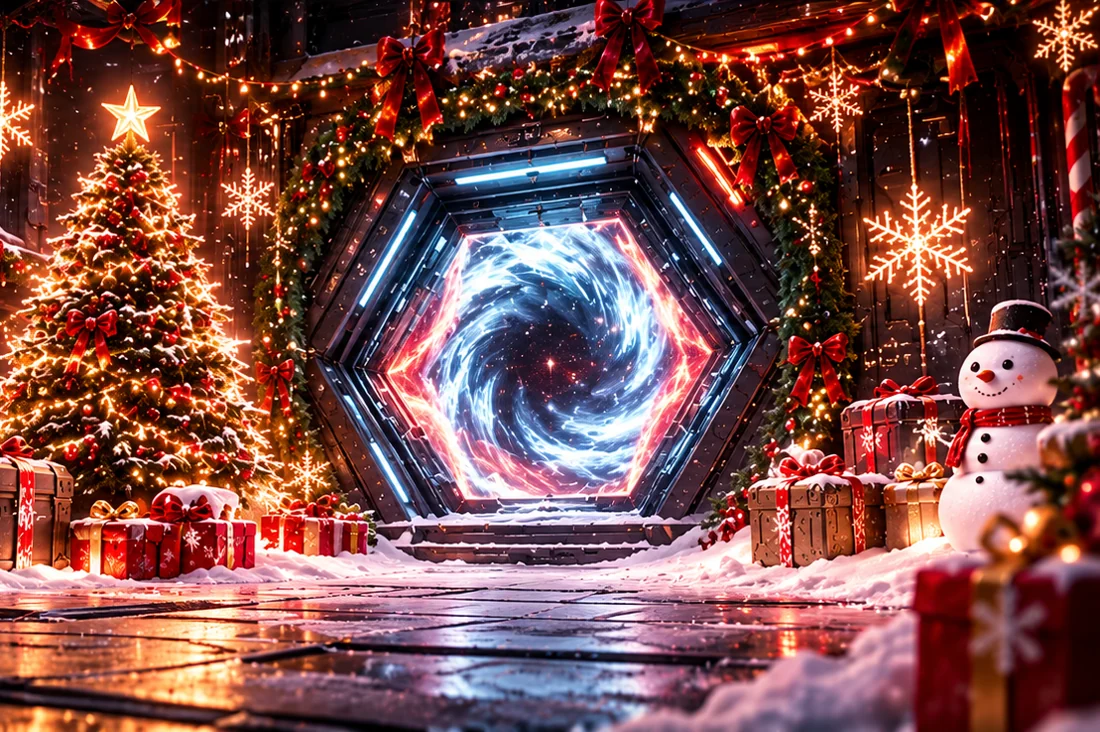
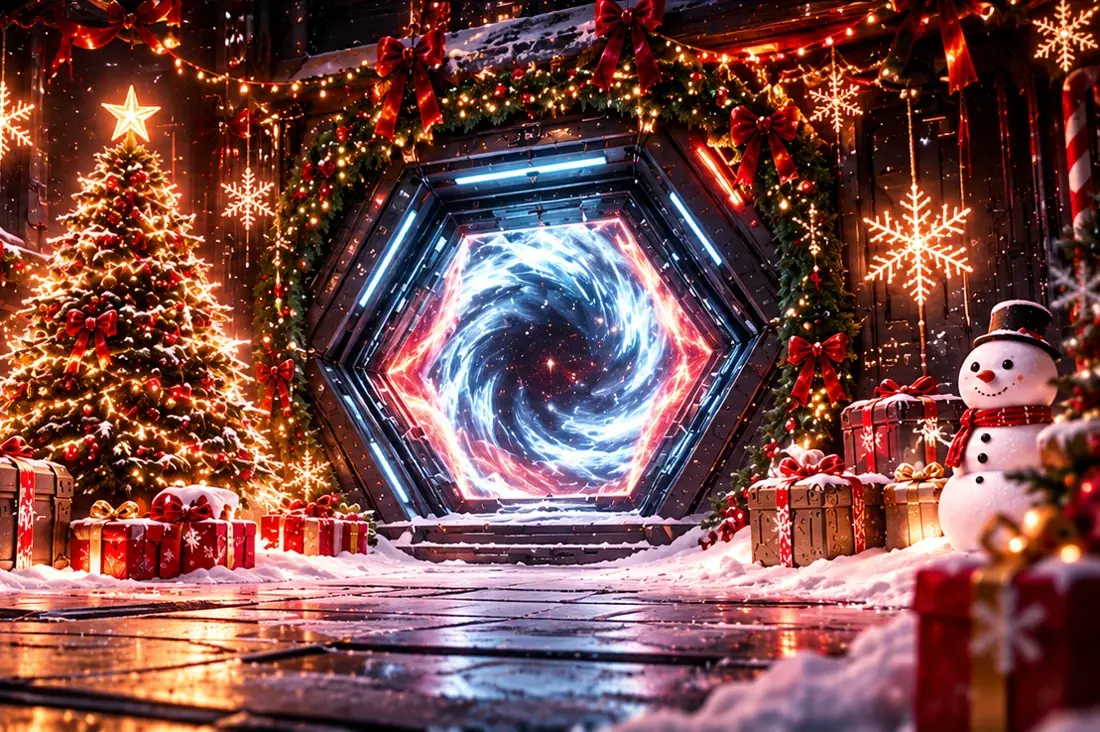
Performance pass 1: lazy cart drawer, smaller hero, hero preload

diff --git a/frontend/src/components/CartDrawerLazy.tsx b/frontend/src/components/CartDrawerLazy.tsx
@@ -1,0 +1,15 @@
+'use client';
+import * as React from 'react';
+import dynamic from 'next/dynamic';
+import { useCartStore } from '@/lib/store';
+
+// The drawer pulls in framer-motion, which most pages do not need on first load. Load it the first time
+// the drawer opens and keep it mounted afterwards so the exit animation and focus return still run.
+const CartDrawer = dynamic(() => import('@/components/CartDrawer').then((m) => m.CartDrawer), { ssr: false });
+
+export function CartDrawerLazy() {
+  const isOpen = useCartStore((s) => s.isDrawerOpen);
+  const [everOpened, setEverOpened] = React.useState(false);
+  React.useEffect(() => { if (isOpen) setEverOpened(true); }, [isOpen]);
+  return everOpened || isOpen ? <CartDrawer /> : null;
+}

diff --git a/frontend/src/app/layout.tsx b/frontend/src/app/layout.tsx
@@ -16,7 +16,7 @@ import { TekMusic } from '@/components/tek/TekMusic';
 import { CookieConsent } from '@/components/CookieConsent';
 import { Footer } from '@/components/Footer';
 import ChatWidget from '@/components/ChatWidget';
-import { CartDrawer } from '@/components/CartDrawer';
+import { CartDrawerLazy } from '@/components/CartDrawerLazy';
 import { ChristmasSnow } from '@/components/ChristmasSnow';
 import { SITE_URL } from '@/lib/site';
 
@@ -80,7 +80,7 @@ export default function RootLayout({
           <TekMusic />
           <CookieConsent />
           <ChatWidget />
-          <CartDrawer />
+          <CartDrawerLazy />
         </Providers>
       </body>
     </html>

diff --git a/frontend/src/app/page.tsx b/frontend/src/app/page.tsx
@@ -18,6 +18,9 @@ const organizationSchema = {
 export default function HomePage() {
   return (
     <>
+      {/* The hero is a CSS background, so the browser would only find it after the stylesheet; hint it early. */}
+      <link rel="preload" as="image" href="/images/seasonal/christmas-depot-v2-mobile.webp" media="(max-width: 640px)" fetchPriority="high" />
+      <link rel="preload" as="image" href="/images/seasonal/christmas-depot-v2.webp" media="(min-width: 641px)" fetchPriority="high" />
       <script type="application/ld+json" dangerouslySetInnerHTML={{ __html: JSON.stringify(organizationSchema) }} />
       <TekHome />
     </>

diff --git a/PROGRESS.md b/PROGRESS.md
@@ -1,5 +1,13 @@
 # IRIS Enterprise Commerce — Progress & Handoff
 
+## Performance pass 1 (baseline + first fixes) — 2026-10-31 (DEPLOYED)
+
+- Baseline (Playwright, mobile 390px, slow-4G 1.6 Mbps/150 ms + 4x CPU; `scratchpad/audit/weight-slow.cjs`): home LCP ~5.2 s, FCP ~3.2 s; other pages LCP ~1-3 s. Transfer per page: JS ~1.2 MB raw (about 400 KB gzip), CSS 233 KB raw, images only 100-900 KB. nginx already gzips and sets immutable cache on `/_next/static`.
+- Correction: the 481 MB in `public/images` is 3,382 small catalog files (mostly < 100 KB, already WebP) and is NOT page weight. The real cost is JS parse + the late-discovered hero background.
+- Changes: hero `christmas-depot-v2(-mobile).webp` re-encoded q76 (407 -> 263 KB, 242 -> 169 KB); home preloads the hero (`app/page.tsx`); `CartDrawer` (the only global framer-motion user) loads on first open via `components/CartDrawerLazy.tsx`.
+- Result in preview (same conditions, single run): home LCP 5.2 -> 4.6 s, JS 1252 -> 1110 KB. Cart drawer verified with a mocked signed-in user (opens, focus inside dialog, Esc closes, reopens, 0 page errors).
+- DEPLOYED: image `heart-plugin-frontend:perf-check`, `artifacts/perf-compose.override.json`. ROLLBACK: `ui-chips-check` (`artifacts/perf-previous-image.txt`). Next levers: the Thai string tables shipped in several chunks, axios (63 KB), render-blocking CSS (8 files), AppleDuoHero's framer-motion on /shop. `lib/socket.ts` lazy-loading judged too risky for the gain (43 KB).
+
 ## Chip top line + search-query label removed — 2026-10-31 (DEPLOYED)
 
 - Hex chips/buttons showed a straight 1px line across the top: legacy `box-shadow: inset 0 1px` rules (christmas-shop.css) ignore the hex clip. `iris-ui.css` now sets `box-shadow: none !important` on hex controls.
